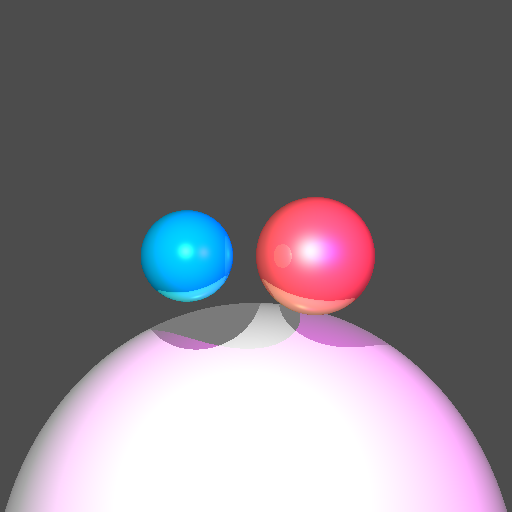
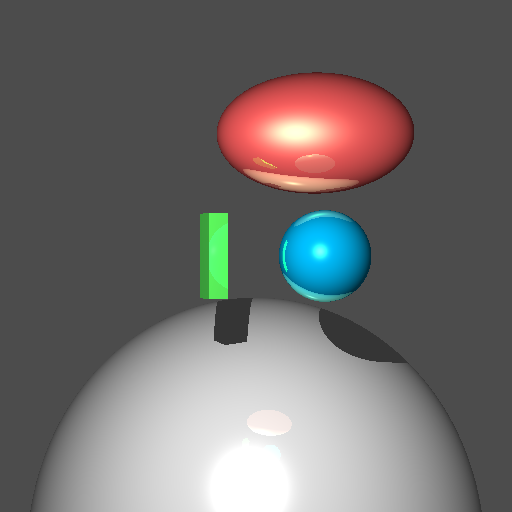
008: support trans hierarchy

diff --git a/Primitive.cpp b/Primitive.cpp
@@ -3,6 +3,7 @@
 #include "Primitive.hpp"
 #include "polyroots.hpp"
 #include <iostream>
+#include <glm/ext.hpp>
 using namespace std;
 
 bool in_range(double root, float t0, float t1)
@@ -30,25 +31,26 @@ NonhierBox::~NonhierBox()
 {
 }
 
-void Sphere::hit(Ray ray, float t0, float t1, Record& record, Material *m) 
+bool Sphere::hit(Ray ray, float t0, float t1, Record& record, Material *m) 
 {   
     double qua_a = dot(ray.Direction, ray.Direction);
     vec4 tem = ray.Origin - m_pos;
     double qua_b = 2 *  dot(ray.Direction, tem);
-    double qua_c = dot(tem, tem) - m_radius * m_radius;
+    double qua_c = dot(tem, tem) - 1;
     double roots[2];
     int root_num = quadraticRoots(qua_a, qua_b, qua_c, roots);
 
     if(root_num == 1)
     {
-        if(!in_range(roots[0], t0, t1)) return;
+        if(!in_range(roots[0], t0, t1)) 
+            return false;
         if(ray.Type == RayType::ShadowRay)      // shadow ray only check for hits
         {
             record.shadow_write();
-            return;
+            return true;
         }
         vec4 intersection = ray.pos_at(roots[0]);    
-        record.over_write(roots[0], intersection - m_pos, intersection, m);
+        return record.over_write(roots[0], intersection - m_pos, intersection, m);
     }
     else if(root_num == 2)
     {
@@ -57,22 +59,87 @@ void Sphere::hit(Ray ray, float t0, float t1, Record& record, Material *m)
         if(in_range(roots[1], t0, t1)) flag += 2;
 
         float close;
-        if(flag == 0) return;
+        if(flag == 0) 
+            return false;
         else if(ray.Type == RayType::ShadowRay)
         {
             record.shadow_write();
-            return;
+            return true;
         }
         else if(flag == 1) close = roots[0];
         else if(flag == 2) close = roots[1];
         else close = roots[0] < roots[1]? roots[0]:roots[1];
         
         vec4 intersection = ray.pos_at(close);
-        record.over_write(close, intersection - m_pos, intersection, m);
+        return record.over_write(close, intersection - m_pos, intersection, m);
     }
+    return false;
 }
 
-void Cube::hit(Ray ray, float t0, float t1, Record& record, Material *m)
+vec4 cube_normal(vec4 inter)
 {
+    float max_abs = -1;
+    int index = 0;
+    bool positive;
+    for(int i = 0; i < 3; i++)
+    {
+        float dis = inter[i];
+        if(abs(dis) > max_abs)
+        {
+            index = i;
+            max_abs = abs(dis);
+            positive = dis > 0;
+        }
+    }
     
+    if(index == 0)
+        return positive? vec4(1,0,0,0) : vec4(-1,0,0,0);
+    else if(index == 1)
+        return positive? vec4(0,1,0,0) : vec4(0,-1,0,0);
+    else
+        return positive? vec4(0,0,1,0) : vec4(0,0,-1,0);
+}
+
+bool Cube::hit(Ray ray, float t0, float t1, Record& record, Material *m)
+{
+    ray.cal_inv();
+    float tmin, tmax, tymin, tymax, tzmin, tzmax; 
+ 
+    tmin = (bounds[ray.sign[0]][0] - ray.Origin[0]) * ray.Inv_dir[0]; 
+    tmax = (bounds[1-ray.sign[0]][0] - ray.Origin[0]) * ray.Inv_dir[0]; 
+    tymin = (bounds[ray.sign[1]][1] - ray.Origin[1]) * ray.Inv_dir[1]; 
+    tymax = (bounds[1-ray.sign[1]][1] - ray.Origin[1]) * ray.Inv_dir[1]; 
+ 
+    if ((tmin > tymax) || (tymin > tmax)) 
+        return false;
+    if (tymin > tmin) 
+        tmin = tymin; 
+    if (tymax < tmax) 
+        tmax = tymax; 
+ 
+    tzmin = (bounds[ray.sign[2]][2] - ray.Origin[2]) * ray.Inv_dir[2];
+    tzmax = (bounds[1-ray.sign[2]][2] - ray.Origin[2]) * ray.Inv_dir[2];
+ 
+    if ((tmin > tzmax) || (tzmin > tmax)) 
+        return false;
+    if (tzmin > tmin) 
+        tmin = tzmin; 
+    if (tzmax < tmax) 
+        tmax = tzmax; 
+    
+    int flag = 0;
+    if(in_range(tmin, t0, t1)) flag += 1;
+    if(in_range(tmax, t0, t1)) flag += 2;
+
+    if(flag == 0) return false;
+    if(ray.Type == RayType::ShadowRay)
+    {
+        record.shadow_write();
+        return true;
+    }
+    if(flag == 2) tmin = tmax;
+
+    vec4 intersection = ray.pos_at(tmin);
+    record.over_write(tmin, cube_normal(intersection), intersection, m);
+    return true;
 } 

diff --git a/SceneNode.cpp b/SceneNode.cpp
@@ -131,18 +131,30 @@ std::ostream & operator << (std::ostream & os, const SceneNode & node) {
 	os << ":[";
 
 	os << "name:" << node.m_name << ", ";
-	os << "id:" << node.m_nodeId;
+	os << "id:" << node.m_nodeId << ", ";
+	// os << "trans:" << to_string(node.trans);
 
 	os << "]\n";
+	// for(SceneNode *child: node.children)
+	// 	os << "		" << *child;
 	return os;
 }
 
 //---------------------------------------------------------------------------------------
-void SceneNode::hit(Ray ray, float t0, float t1, Record& record)
+bool SceneNode::hit(Ray ray, float t0, float t1, Record& record, bool this_hit)
 {
 	for(SceneNode *child: children)
 	{
-		child->hit(ray, t0, t1, record);
-		if(ray.Type == RayType::ShadowRay && record.hit) return;
+		this_hit = child->hit(ray.transform(invtrans), t0, t1, record, false) || this_hit;
+		if(ray.Type == RayType::ShadowRay && record.hit) return true;
 	}
+	if(this_hit)
+	{
+		record.intersection = trans * record.intersection;
+		record.normal = transpose(invtrans) * record.normal;
+		record.normal[3] = 0;
+		if(m_nodeType == NodeType::SceneNode) record.normal = normalize(record.normal);
+		return true;
+	}
+	return false;
 }

diff --git a/Primitive.hpp b/Primitive.hpp
@@ -10,27 +10,26 @@
 class Primitive {
 public:
   virtual ~Primitive();
-  virtual void hit(Ray ray, float t0, float t1, Record& record, Material *m) {}
+  virtual bool hit(Ray ray, float t0, float t1, Record& record, Material *m) { return false; }
 };
 
 class Sphere : public Primitive {
 public:
-  Sphere(const glm::vec3& pos, double radius)
-    : m_radius(radius)
+  Sphere()
   {
-    m_pos = vec4(pos, 1);
   }
   virtual ~Sphere();
-  void hit(Ray ray, float t0, float t1, Record& record, Material *m) override;
+  bool hit(Ray ray, float t0, float t1, Record& record, Material *m) override;
 private:
-  glm::vec4 m_pos;
-  double m_radius;
+  glm::vec4 m_pos = vec4(0, 0, 0, 1);
 };
 
 class Cube : public Primitive {
 public:
   virtual ~Cube();
-  void hit(Ray ray, float t0, float t1, Record& record, Material *m) override;
+  bool hit(Ray ray, float t0, float t1, Record& record, Material *m) override;
+private:
+  glm::vec4 bounds[2] = {glm::vec4(-0.5f, -0.5f, -0.5f, 1), glm::vec4(0.5f, 0.5f, 0.5f, 1)};
 };
 
 class NonhierSphere : public Primitive {

diff --git a/GeometryNode.cpp b/GeometryNode.cpp
@@ -2,6 +2,7 @@
 
 #include "GeometryNode.hpp"
 #include <iostream>
+#include <glm/ext.hpp>
 //---------------------------------------------------------------------------------------
 GeometryNode::GeometryNode(
 	const std::string & name, Primitive *prim, Material *mat )
@@ -28,9 +29,9 @@ void GeometryNode::setMaterial( Material *mat )
 	m_material = mat;
 }
 
-void GeometryNode::hit(Ray ray, float t0, float t1, Record& record)
+bool GeometryNode::hit(Ray ray, float t0, float t1, Record& record, bool this_hit)
 {
-	m_primitive->hit(ray, t0, t1, record, m_material);
-	if(ray.Type == RayType::ShadowRay && record.hit) return;
-	SceneNode::hit(ray, t0, t1, record);
+	bool intersect = m_primitive->hit(ray.transform(invtrans), t0, t1, record, m_material);
+	if(ray.Type == RayType::ShadowRay && record.hit) return true;
+	return SceneNode::hit(ray, t0, t1, record, intersect);
 }

diff --git a/Ray.cpp b/Ray.cpp
@@ -5,7 +5,7 @@ Ray::Ray(vec4 origin, vec4 direction, bool dir, RayType type)
 {
     Type = type;
     Origin = origin;
-    if (dir) Direction = normalize(direction);
+    if (dir) Direction = direction;
     else Direction = normalize(direction - Origin);
 }
 
@@ -16,7 +16,15 @@ vec4 Ray::pos_at(float t)
     return Origin + t * Direction;
 }
 
-// vec3 Ray::transform(mat4 trans)
-// {
-//     Origin = vec3(trans * vec4(Origin, 1));
-// }
+Ray Ray::transform(mat4 trans)
+{
+    return Ray(trans * Origin, trans * Direction, true, this->Type);
+}
+
+void Ray::cal_inv()
+{
+    Inv_dir = vec4(1/Direction[0], 1/Direction[1], 1/Direction[2], 0);
+    sign[0] = Inv_dir[0] < 0;
+    sign[1] = Inv_dir[1] < 0;
+    sign[2] = Inv_dir[2] < 0;
+}

diff --git a/Record.cpp b/Record.cpp
@@ -1,20 +1,23 @@
 #include "Record.hpp"
+#include <iostream>
 
 Record::Record()
 {
     hit = false;
 }
 
-void Record::over_write(float new_t, vec4 n, vec4 inter, Material *m)
+bool Record::over_write(float new_t, vec4 n, vec4 inter, Material *m)
 {
     if(!hit || new_t < min_t)
     {
         hit = true;
         min_t = new_t;
-        normal = normalize(n);
+        normal = n;
         intersection = inter;
         material = m;
+        return true;
     }
+    return false;
 }
 
 void Record::shadow_write()

diff --git a/scene_lua.cpp b/scene_lua.cpp
@@ -170,13 +170,7 @@ int gr_sphere_cmd(lua_State* L)
   data->node = 0;
   
   const char* name = luaL_checkstring(L, 1);
-
-  glm::vec3 pos;
-  get_tuple(L, 2, &pos[0], 3);
-
-  double radius = luaL_checknumber(L, 3);
-
-  data->node = new GeometryNode( name, new Sphere(pos, radius));
+  data->node = new GeometryNode( name, new Sphere());
 
   luaL_getmetatable(L, "gr.node");
   lua_setmetatable(L, -2);

diff --git a/Ray.hpp b/Ray.hpp
@@ -13,10 +13,14 @@ public:
     vec4 Origin;
     vec4 Direction;
 
+    vec4 Inv_dir;
+    int sign[3];
+
     RayType Type;
 
     Ray(vec4 origin, vec4 direction, bool dir = true, RayType type = RayType::ViewRay);
     Ray();
     vec4 pos_at(float t);
-    void transform(mat4 trans);
+    Ray transform(mat4 trans);
+    void cal_inv();
 };

diff --git a/SceneNode.hpp b/SceneNode.hpp
@@ -55,7 +55,7 @@ public:
 	std::string m_name;
 	unsigned int m_nodeId;
 
-    virtual void hit(Ray ray, float t0, float t1, Record& record);
+    virtual bool hit(Ray ray, float t0, float t1, Record& record, bool this_hit = false);
 private:
 	// The number of SceneNode instances.
 	static unsigned int nodeInstanceCount;

diff --git a/Record.hpp b/Record.hpp
@@ -14,7 +14,7 @@ public:
     vec4 intersection;  // the intersection point
     Material *material;
     Record();
-    void over_write(float new_t, vec4 n, vec4 inter, Material *m);
+    bool over_write(float new_t, vec4 n, vec4 inter, Material *m);
     void shadow_write();
 };
 

diff --git a/GeometryNode.hpp b/GeometryNode.hpp
@@ -16,5 +16,5 @@ public:
 	Material *m_material;
 	Primitive *m_primitive;
 
-	void hit(Ray ray, float t0, float t1, Record& record) override;
+	bool hit(Ray ray, float t0, float t1, Record& record, bool this_hit) override;
 };
